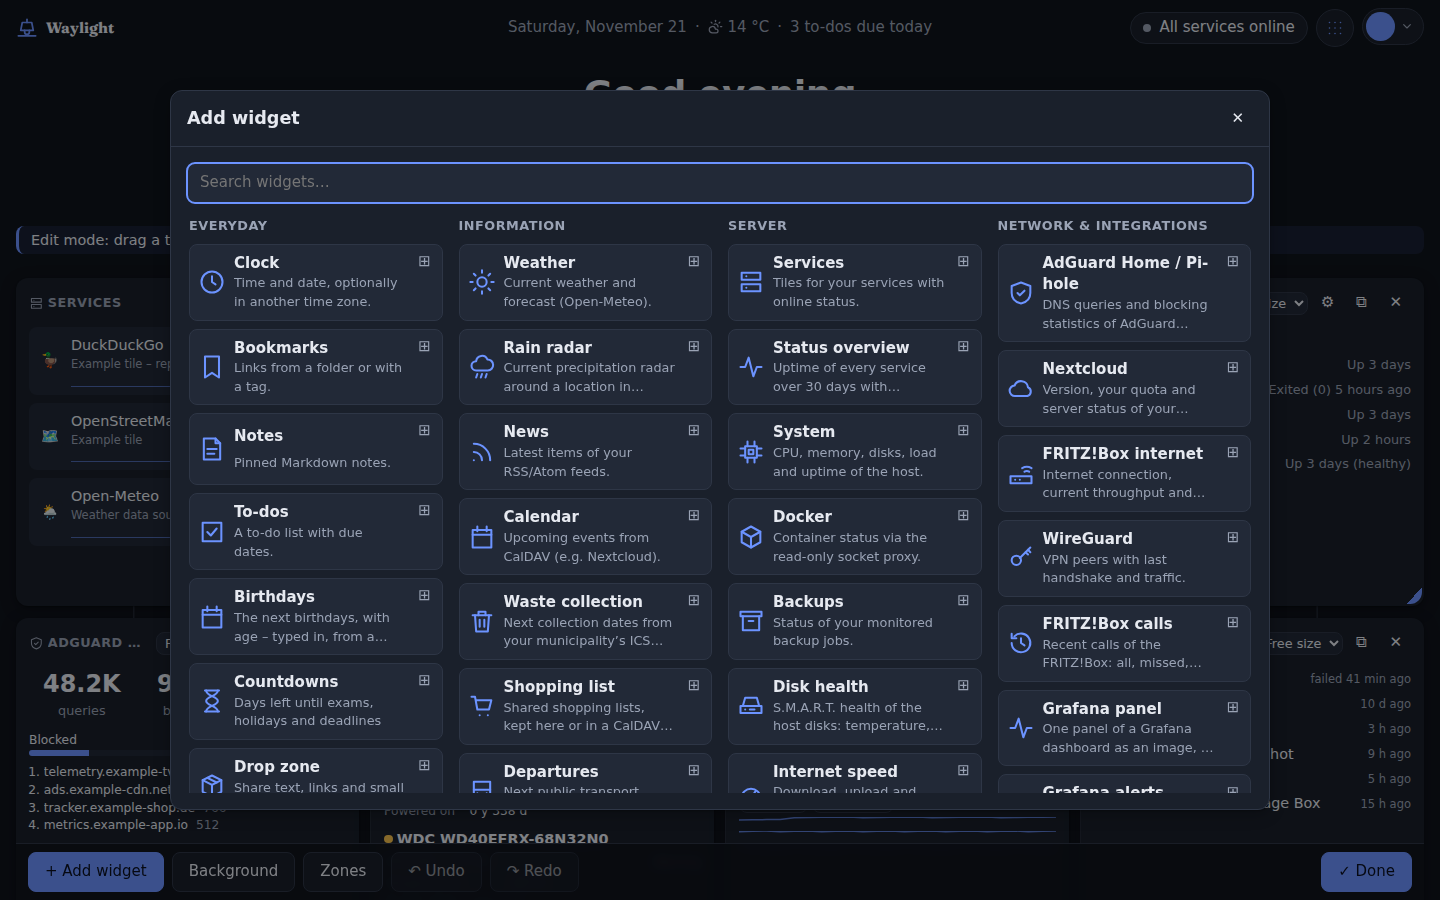
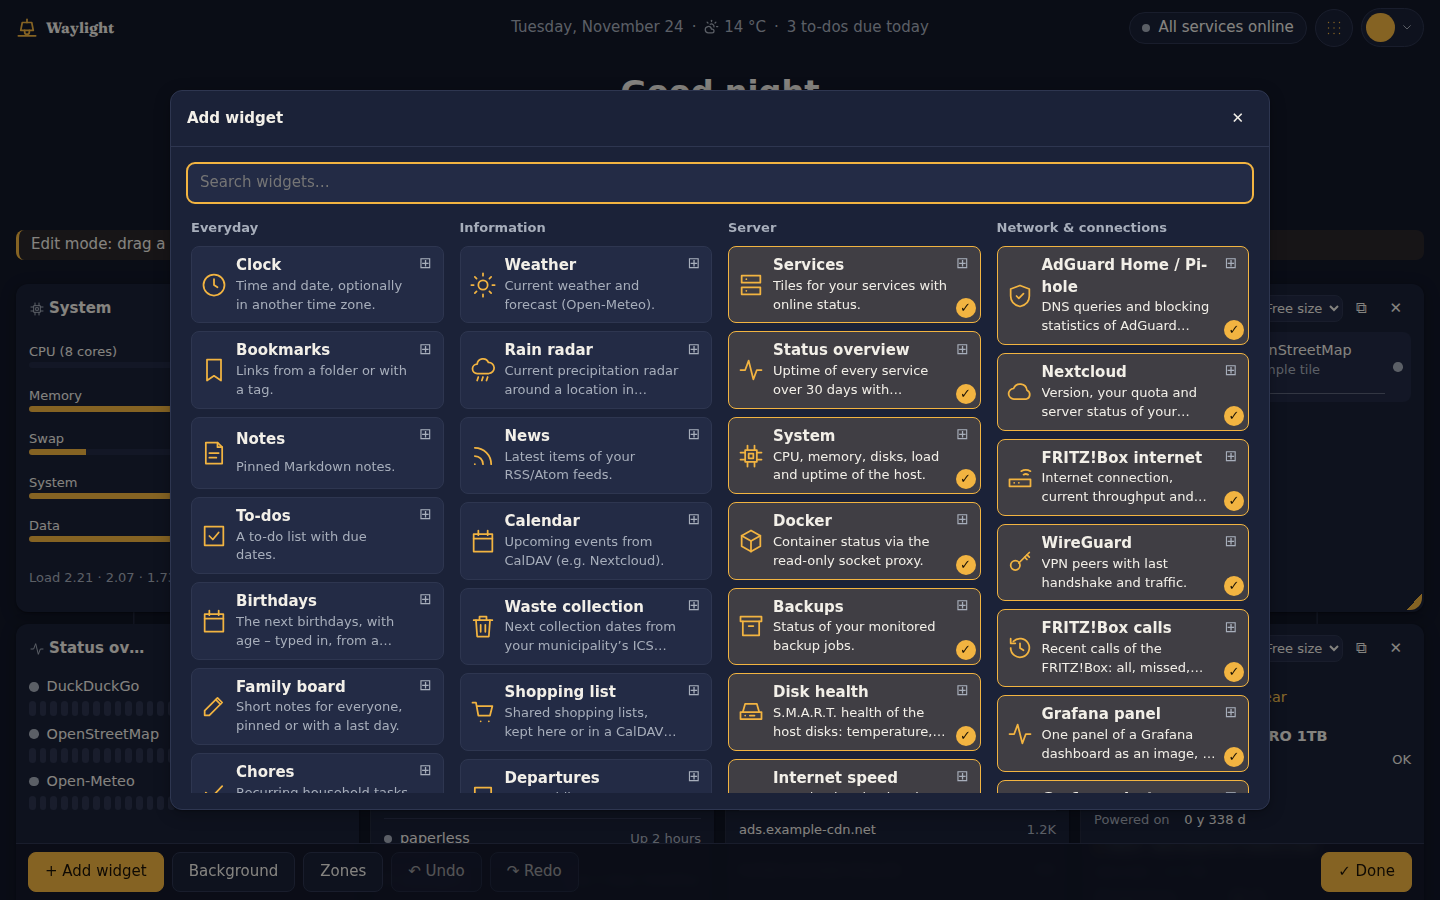
docs(screenshots): regenerate screenshots and update the design guide
Screenshots are regenerated from the demo instance with npm run screenshots and show the redesigned app. The design guide now covers the lit card tokens, WidgetHeader, ListRow, StatusDot, the bottom navigation below 640 px, the speed chart and the compact view of small and strip widgets. The phone layout section names the bottom navigation.

diff --git a/docs/design-guide.md b/docs/design-guide.md
@@ -60,9 +60,14 @@ else is neutral: surfaces, borders and text come from one tinted ramp.
 Text and the accent used as text reach 4.5:1 on the surface they sit on.
 The `--color-lit-*` tokens belong to the lit card (see Surfaces) and keep that
 ratio on it; `--color-lit-warning` and `--color-lit-danger` colour the dot of a
-weather warning there.
+weather warning there. A theme that sets `--color-lit` sets the other
+`--color-lit-*` tokens with it.
+
 Status colours carry meaning only: green for healthy, amber for a warning,
 red for a failure. A status is always a dot plus a word, never colour alone.
+`StatusDot` (`web/src/shared/ui/StatusDot.svelte`) draws it with four levels:
+ok, warning, failed and stopped. Stopped is a hollow ring, so it differs from
+a filled dot by shape as well as by colour.
 
 ## Surfaces
 
@@ -72,8 +77,9 @@ from one hue to another. The page background is a single colour.
 
 Each screen has at most one lit card, such as the clock and weather card on
 the Home tab (the Tonight widget). It inverts the scheme: warm paper
-(`#fff3d6` with ink `#1b2238`) on the night theme, navy on the paper theme. Nothing else on the
-screen competes with it.
+(`#fff3d6` with ink `#1b2238`) on the night theme, navy on the paper theme.
+It shows the time, the date, the current weather, the active weather warning
+and a four-day forecast. Nothing else on the screen competes with it.
 
 ## Icons
 
@@ -84,15 +90,24 @@ into their own notes, habits or bookmarks stay as they are.
 
 ## Widgets
 
-A widget header has a line icon, the title in sentence case at `--fs-sm` and
-weight 600, and at most one icon button on the right. Titles are never set in
-capitals with wide letter spacing.
+Every widget starts with `WidgetHeader`
+(`web/src/shared/ui/WidgetHeader.svelte`): a line icon, the title in sentence
+case at `--fs-sm` and weight 600, and at most one icon button on the right.
+The full card and the compact view use the same header. Titles are never set
+in capitals with wide letter spacing.
 
-A list row is at least 40 px high, separated from the next by a 1 px line. It
+Widgets list their items with `ListRow` (`web/src/shared/ui/ListRow.svelte`).
+A row is at least 40 px high, separated from the next by a 1 px line. It
 has the main text, an optional second line at `--fs-xs` in the muted colour,
 and a value on the right. A value that needs attention, such as a due date,
 uses the accent text colour. Text that does not fit wraps or ends in an
 ellipsis; it is never cut off.
+
+A widget has four sizes: small, medium, large and strip. They show different
+content, not the same content scaled. Medium and large show the full widget.
+Small and strip show a compact view of one or two lines, such as
+"3 open · 1 overdue", and a click opens the full widget in a panel. A new
+widget therefore needs both a full view and a compact view.
 
 Numbers that line up use tabular figures. The clock and other large numbers
 use Fraunces at `--fs-lg`; there is no fifth size.
@@ -103,7 +118,17 @@ A screen has one main chart, clearly the largest data element. It uses a
 smooth line with a light area fill, a muted grid and axis labels at
 `--fs-xs`. The series the chart is about uses the accent; any other series
 uses a neutral step. Other widgets show data as lists and thin 4 px bars, not
-as a second chart of the same weight.
+as a second chart of the same weight. `LineChart`
+(`web/src/shared/ui/LineChart.svelte`) draws it. On the Server tab the main
+chart is the internet speed chart, with a 24 hour and a 7 day range.
+
+## Navigation
+
+Above 640 px the tabs sit in a bar under the search field, the selected tab
+filled with the accent. At 640 px and below they become a bottom navigation
+fixed to the bottom edge: an icon and a label per tab, the selected one marked
+with a line in the accent. The page leaves room for it, so no widget ends
+behind it.
 
 ## Copy
 

diff --git a/docs/dashboard.md b/docs/dashboard.md
@@ -169,7 +169,8 @@ not come back for that tab.
 
 ## The phone layout
 
-On narrow screens the widgets are stacked in one column. By default the
+On narrow screens (640 px and below) the tabs move to a navigation bar at the
+bottom of the screen and the widgets are stacked in one column. By default the
 order follows the desktop layout, row by row. Each tab can have its own
 phone layout instead: in edit mode on a phone, move widgets up and down, make
 them shorter or taller, or hide them on phones only. **Reset from desktop
